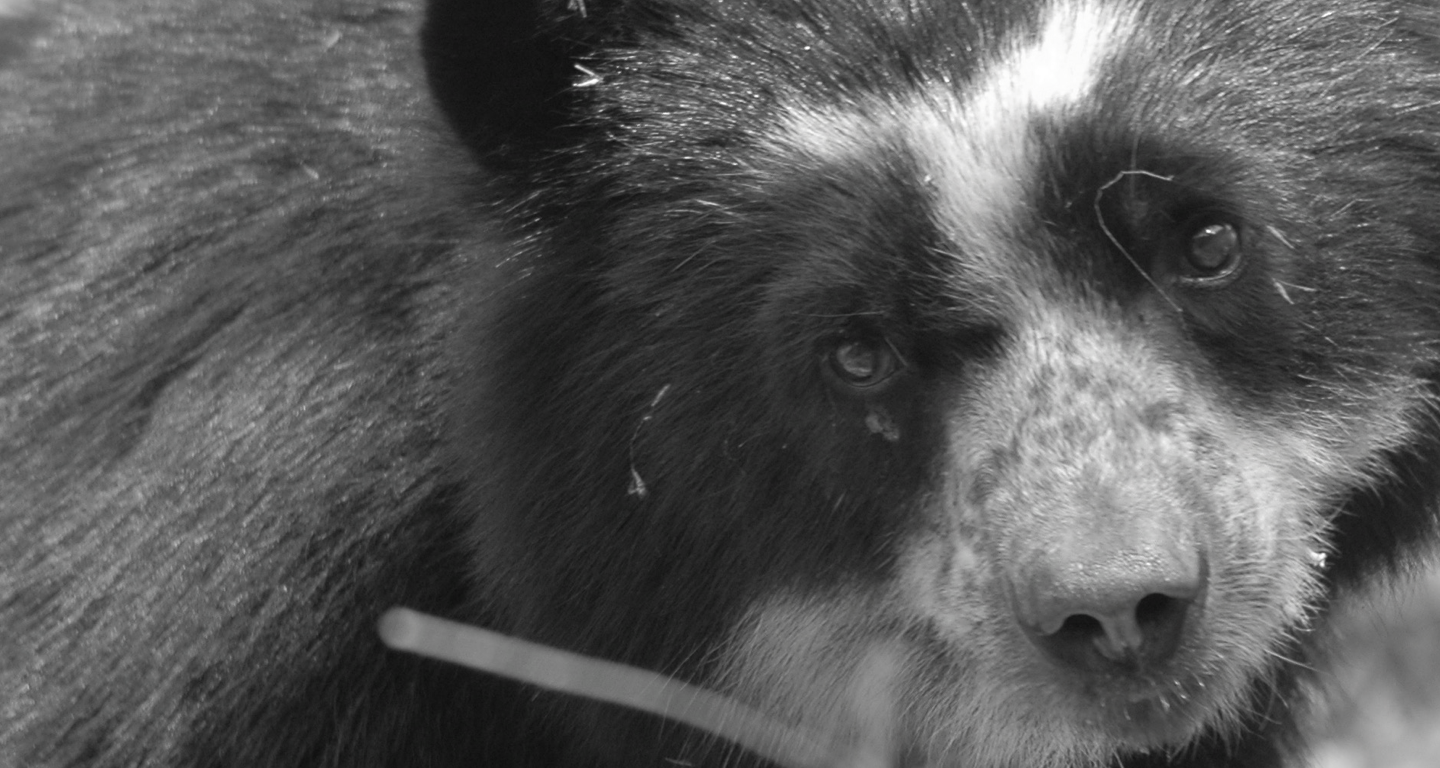
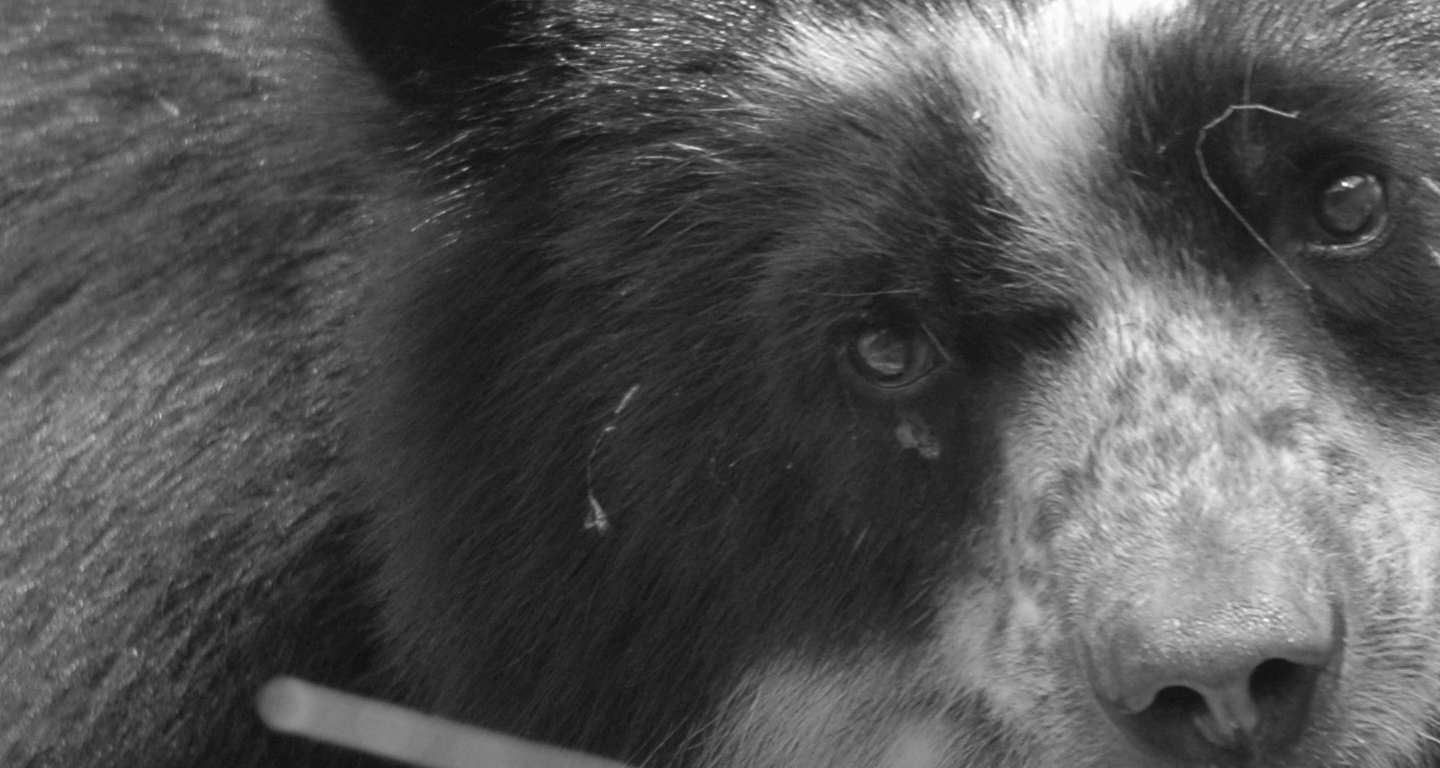
changing images

diff --git a/css/style.css b/css/style.css
@@ -76,7 +76,7 @@ li {
 	height:100vh;
 	margin: 0;
 	background-attachment: fixed;
-	background-position: right;
+	background-position: center;
 	background-repeat: no-repeat;
 	background-size: cover;
 }
